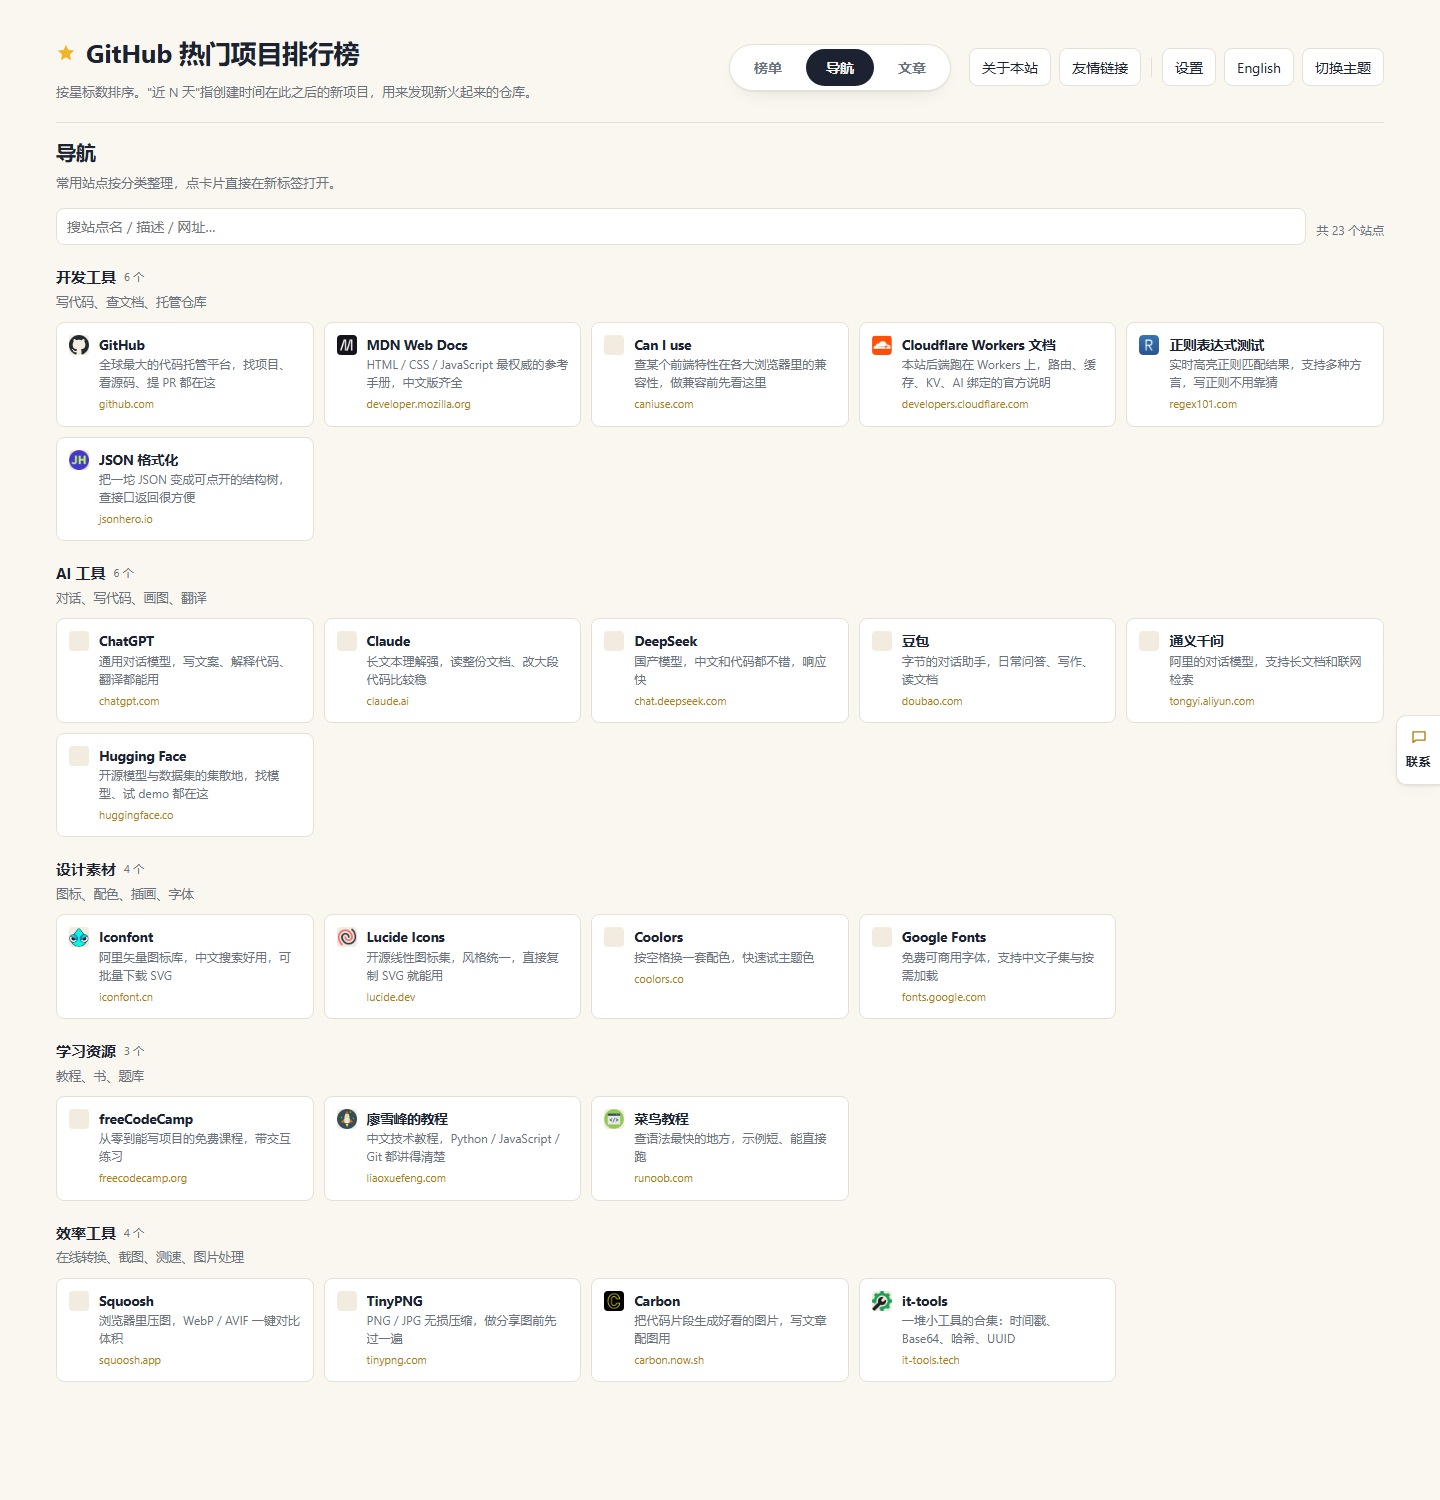
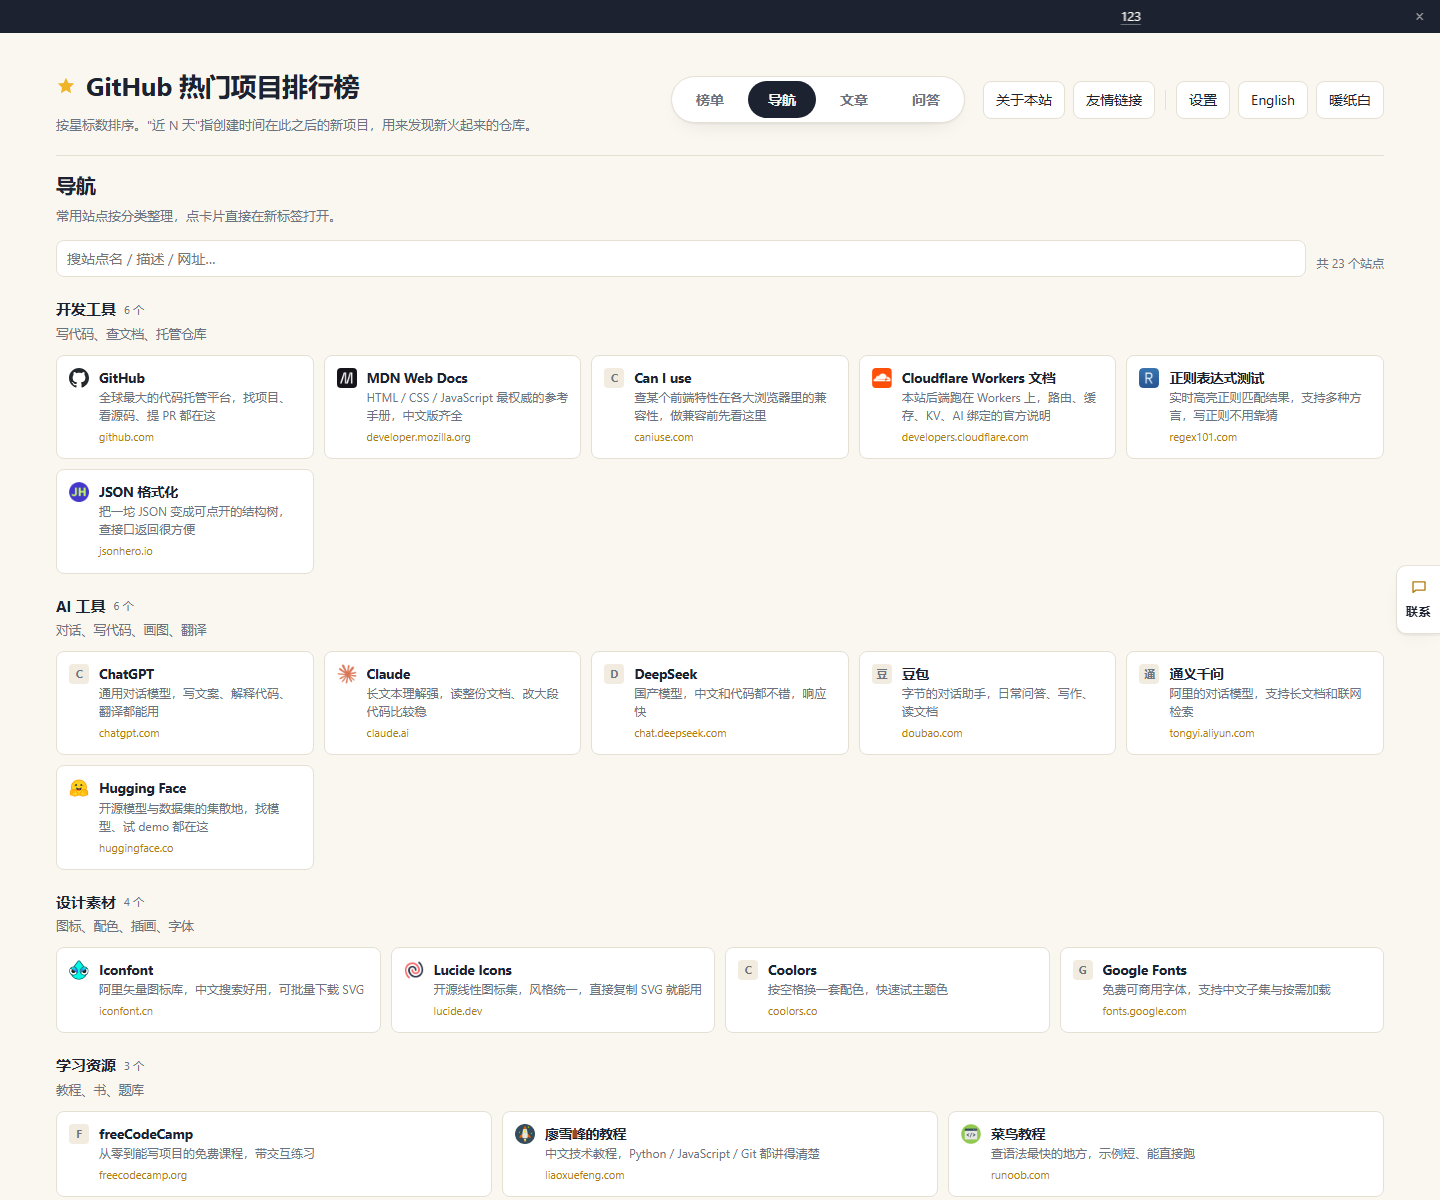
feat: 导航卡片图标兜底 + 网格自适应；新增前台生效闭环审计脚本
- index.html：导航卡片图标加载失败时显示站点名首字母（原来留空白方块）；
  分组网格 auto-fill → auto-fit，末行不再出现大块空缺
- scripts/check-frontend-closure.mjs：10 组「后台保存 → 前台真生效」闭环审计
  （SEO/主题/布局/广告/联系/备案/运行时/友链/导航/问答），跑完自动还原数据
- docs：优化建议 §27（性能复测数据 + 闭环审计说明）、操作手册 §1.1.7（验收三件套）
- docs/shots：nav-page.png、home-double.png 刷新
- ASSET_V / CACHE → v56

diff --git a/index.html b/index.html
@@ -196,11 +196,12 @@ body[data-page="nav"] #insights{display:none!important}
 .navgroup>h3{margin:0 0 2px;font-size:15px;display:flex;align-items:center;gap:8px}
 .navgroup>h3 .cnt{font-size:11px;color:var(--muted);font-weight:400}
 .navgroup>.gd{margin:0 0 10px;font-size:12.5px;color:var(--muted)}
-.navgird{display:grid;grid-template-columns:repeat(auto-fill,minmax(240px,1fr));gap:10px}
+.navgird{display:grid;grid-template-columns:repeat(auto-fit,minmax(240px,1fr));gap:10px}
 .navcard{display:flex;gap:10px;align-items:flex-start;padding:12px;border:1px solid var(--border);border-radius:var(--radius-sm);background:var(--card);text-decoration:none;color:inherit;transition:transform .12s,border-color .12s,box-shadow .12s}
 .navcard:hover{transform:translateY(-1px);border-color:var(--accent);box-shadow:var(--shadow)}
-.navcard .icw{width:20px;height:20px;flex:none;border-radius:4px;background:var(--chip);overflow:hidden;display:block}
-.navcard .icw img{width:100%;height:100%;object-fit:contain;display:block}
+.navcard .icw{position:relative;width:20px;height:20px;flex:none;border-radius:4px;background:var(--chip);overflow:hidden;display:grid;place-items:center}
+.navcard .icw .ic-l{font-size:10.5px;font-weight:700;color:var(--muted);line-height:1;text-transform:uppercase}
+.navcard .icw img{position:absolute;inset:0;width:100%;height:100%;object-fit:contain;display:block;background:var(--card)}
 .navcard .nb{min-width:0}
 .navcard b{display:block;font-size:13.5px;line-height:1.35;overflow:hidden;text-overflow:ellipsis;white-space:nowrap}
 .navcard small{display:-webkit-box;-webkit-line-clamp:2;-webkit-box-orient:vertical;overflow:hidden;margin-top:2px;color:var(--muted);font-size:12px;line-height:1.5}
@@ -1140,7 +1141,7 @@ html[data-theme="ink"] meta,html[data-theme="ink"]{color-scheme:dark}
           (g.desc?'<p class="gd">'+escH(g.desc)+'</p>':'')+'<div class="navgird">';
         items.forEach(function(it,idx){
           html+='<a class="navcard" href="'+escH(it.url)+'" target="_blank" rel="noopener noreferrer">'+
-            '<span class="icw">'+(it.icon?'<img src="'+escH(it.icon)+'" alt="" loading="lazy" referrerpolicy="no-referrer" onerror="this.remove()">':'')+'</span>'+
+            '<span class="icw"><span class="ic-l">'+escH(String(it.name || it.url || '?').trim().charAt(0))+'</span>'+(it.icon?'<img src="'+escH(it.icon)+'" alt="" loading="lazy" referrerpolicy="no-referrer" onerror="this.remove()">':'')+'</span>'+
             '<span class="nb"><b>'+escH(it.name)+'</b>'+
             (it.desc?'<small>'+escH(it.desc)+'</small>':'')+
             '<span class="host">'+escH(navHost(it.url))+'</span></span></a>';

diff --git a/sw.js b/sw.js
@@ -1,5 +1,5 @@
 /* Service Worker：缓存页面外壳（HTML/JS/图标），让离线也能打开；GitHub API 不缓存，由页面自己的 localStorage 管理 */
-const CACHE = 'ghrank-shell-v55';
+const CACHE = 'ghrank-shell-v56';
 const SHELL = ['./', 'index.html', 'js/bundle.js', 'js/md.js', 'manifest.json', 'icon.svg'];
 // 只预缓存 meta（约 2KB）。榜单数据按 range 分文件、由页面按需加载，不再在安装时白下几�?KB
 const DATA = 'data/repos-meta.js';

diff --git a/worker.js b/worker.js
@@ -1410,7 +1410,7 @@ async function injectFaqLd(env, html) {
 
 // 静态资源版本：HTML 里的 /js/*.js 都会被加上 ?v=<这里>，于是能给浏览器一年 immutable；
 // 改了前端就把它 +1（不然用户浏览器会抱着一周的旧 bundle，界面上去点了没反应）
-const ASSET_V = 'v55';
+const ASSET_V = 'v56';
 
 function emptyNav() {
   return { updatedAt: '', groups: [] };

diff --git a/docs/优化建议.md b/docs/优化建议.md
@@ -433,3 +433,35 @@ node scripts/check-worker.mjs      # 本地模拟 Workers 运行时，30+ 项断
 - 后台收录提交多一个「试推 1 条」按钮 + 「key 文件内容」状态行。
 
 新增门禁 `scripts/check-pane-wiring.mjs`（四段）：TABS↔pane 一一对应、每个 pane 有保存入口、每个 `data-save` 的 section 合法、每个输入框都有人读。踩坑：`data-save="nav"`/`"qa"` 走专用接口 `/api/nav`、`/api/qa` 不在 `SITE_SECTIONS`；`contact-*`/`beian-*`/`seo-*` 由 `FIELDS[sec].forEach(k => $(sec + '-' + k))` 动态读；`vf*` 由 `[data-vf]` 选择器读；`geoSm`/`geoLlms` 是 readonly 复制框——这四类都要白名单，否则 25 条全是误报。
+
+## 27. 第二十七批：性能三项复测 + 前台生效闭环审计
+
+### 性能实测（2026-11-25 19:0x，中国大陆家宽，边缘 HKG）
+
+| 目标 | 改前 | 改后 | 手段 |
+| --- | --- | --- | --- |
+| 热点仓库 README 译文 | 1101ms（每次回 GitHub + 翻译） | 532ms 冷 / 258ms 热 | `readmeZhMap(env)` 三级取（isolate 内存 → EDGE_CACHE `/__readme_zh_all` → raw），Action 预翻译前 40 个仓库 |
+| `/api/desc-zh` 4 条描述 | 3585ms（逐条 `hit.text()` 串行） | 2340ms 冷 / 244ms 热（`cached=4`） | 先并发查缓存，剩下的过 6 并发 `poolMap` |
+| `/data/repos-meta.js?v=…` | 只有 `max-age` | `max-age=31536000, s-maxage=604800, immutable` | 版本化资源补 s-maxage |
+
+### 新增：`scripts/check-frontend-closure.mjs`（前台生效闭环）
+
+10 组「后台保存 → 数据文件 / 前台 HTML 真的变了」：
+
+1. SEO 标题 / 描述 → 首页 `<title>`、`meta[name=description]`
+2. `theme.name=ink` → `<html data-theme="ink">`
+3. `layout.mode/side/users` → `<body data-layout/data-side/data-users>`
+4. 广告 `home-top` → `/data/site.json` 里出现自定义 HTML
+5. 联系方式 `email` → 回读一致
+6. 备案 `icp` → 回读一致
+7. `runtime.aiCap` / `runtime.baiduToken` → 回读一致
+8. 友链：`action=add` 加一条 → 出现在 `/data/links.json` → `action=remove` 删掉
+9. 导航：保存分组 → 出现在 `/data/nav.json`
+10. 问答：保存问题 → `/data/qa.json` 或 `/faq` 里能读到
+
+脚本开头快照 `data/{site,links,articles,qa,nav}.json`，结尾原样写回，跑完 `git status` 应当干净。跑法：先起 `node scripts/dev-server.mjs`，再 `node scripts/check-frontend-closure.mjs`。
+
+### 踩坑
+
+- `/api/links` **不是整表替换**：`POST` 只接受 `{ action: 'add' | 'remove' }`，`add` 传 `name/url/desc`，`remove` 传 `index`（索引来自 `GET /api/links`）。按 `{ links: [...] }` 提交会 400。
+- 闭环脚本里对比「前台是否生效」时，前台是 **fetch `/data/site.json` 再渲染**，所以断言要查 `/data/*.json` 的内容（或 `?probe=<时间戳>` 绕过缓存），只查首页 HTML 会漏掉客户端渲染的部分。

diff --git a/docs/操作手册.md b/docs/操作手册.md
@@ -457,3 +457,21 @@ scripts/preview-admin.mjs  生成后台各面板的预览页（自动用 dev 密
 
 **自检**：`node scripts/check-worker.mjs` 的「25. 分类管理 + 文章 .html 地址」会验证
 分类保存/回读、重复英文词被拒、中文当英文词被拒、slug 用英文 key、301 → .html → 200、sitemap 用 .html。
+
+### §1.1.7 改完之后怎么快速验收（三件套）
+
+依次跑，全绿才算改完：
+
+```powershell
+node scripts/dev-server.mjs                      # 另一个窗口
+node scripts/check-worker.mjs                    # 后台接口 + 前台 HTML 断言
+node scripts/check-frontend-closure.mjs          # 后台保存 → 前台生效闭环
+node scripts/check-pane-wiring.mjs               # 每个面板的保存/输入有没有接线
+node scripts/check-admin-script.mjs              # 后台内联脚本能不能解析
+node scripts/check-admin-refs.mjs                # 后台 id 引用有没有断
+node scripts/check-articles.mjs                  # 文章地址 / sitemap
+```
+
+- `check-frontend-closure` 会临时改 `data/*.json`，跑完自动还原；如果中途 Ctrl+C，用 `git checkout -- data` 还原。
+- 改完 `worker.js` 之后 **必须重启 dev-server**（它启动时拷贝一份 worker.js，不重启测的是旧代码）。
+- 改完线上：`node scripts/deploy-worker.mjs`，脚本会自检 `/api/status` 的 `configured` 与 `ai`。
